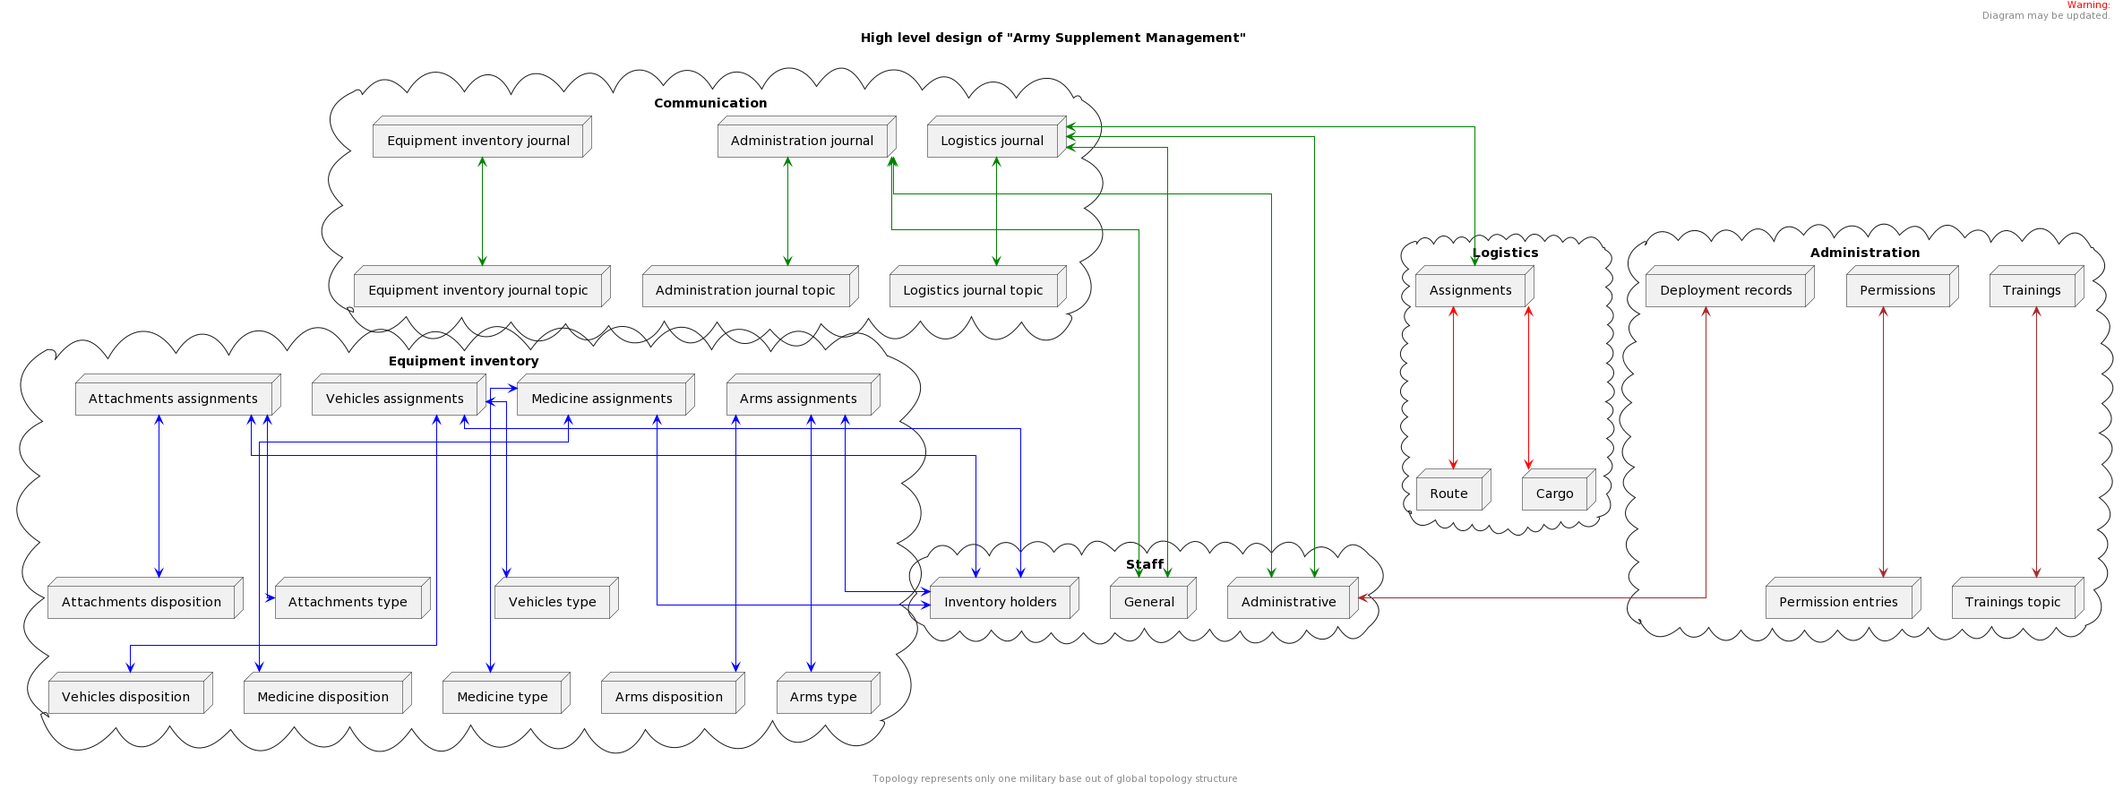
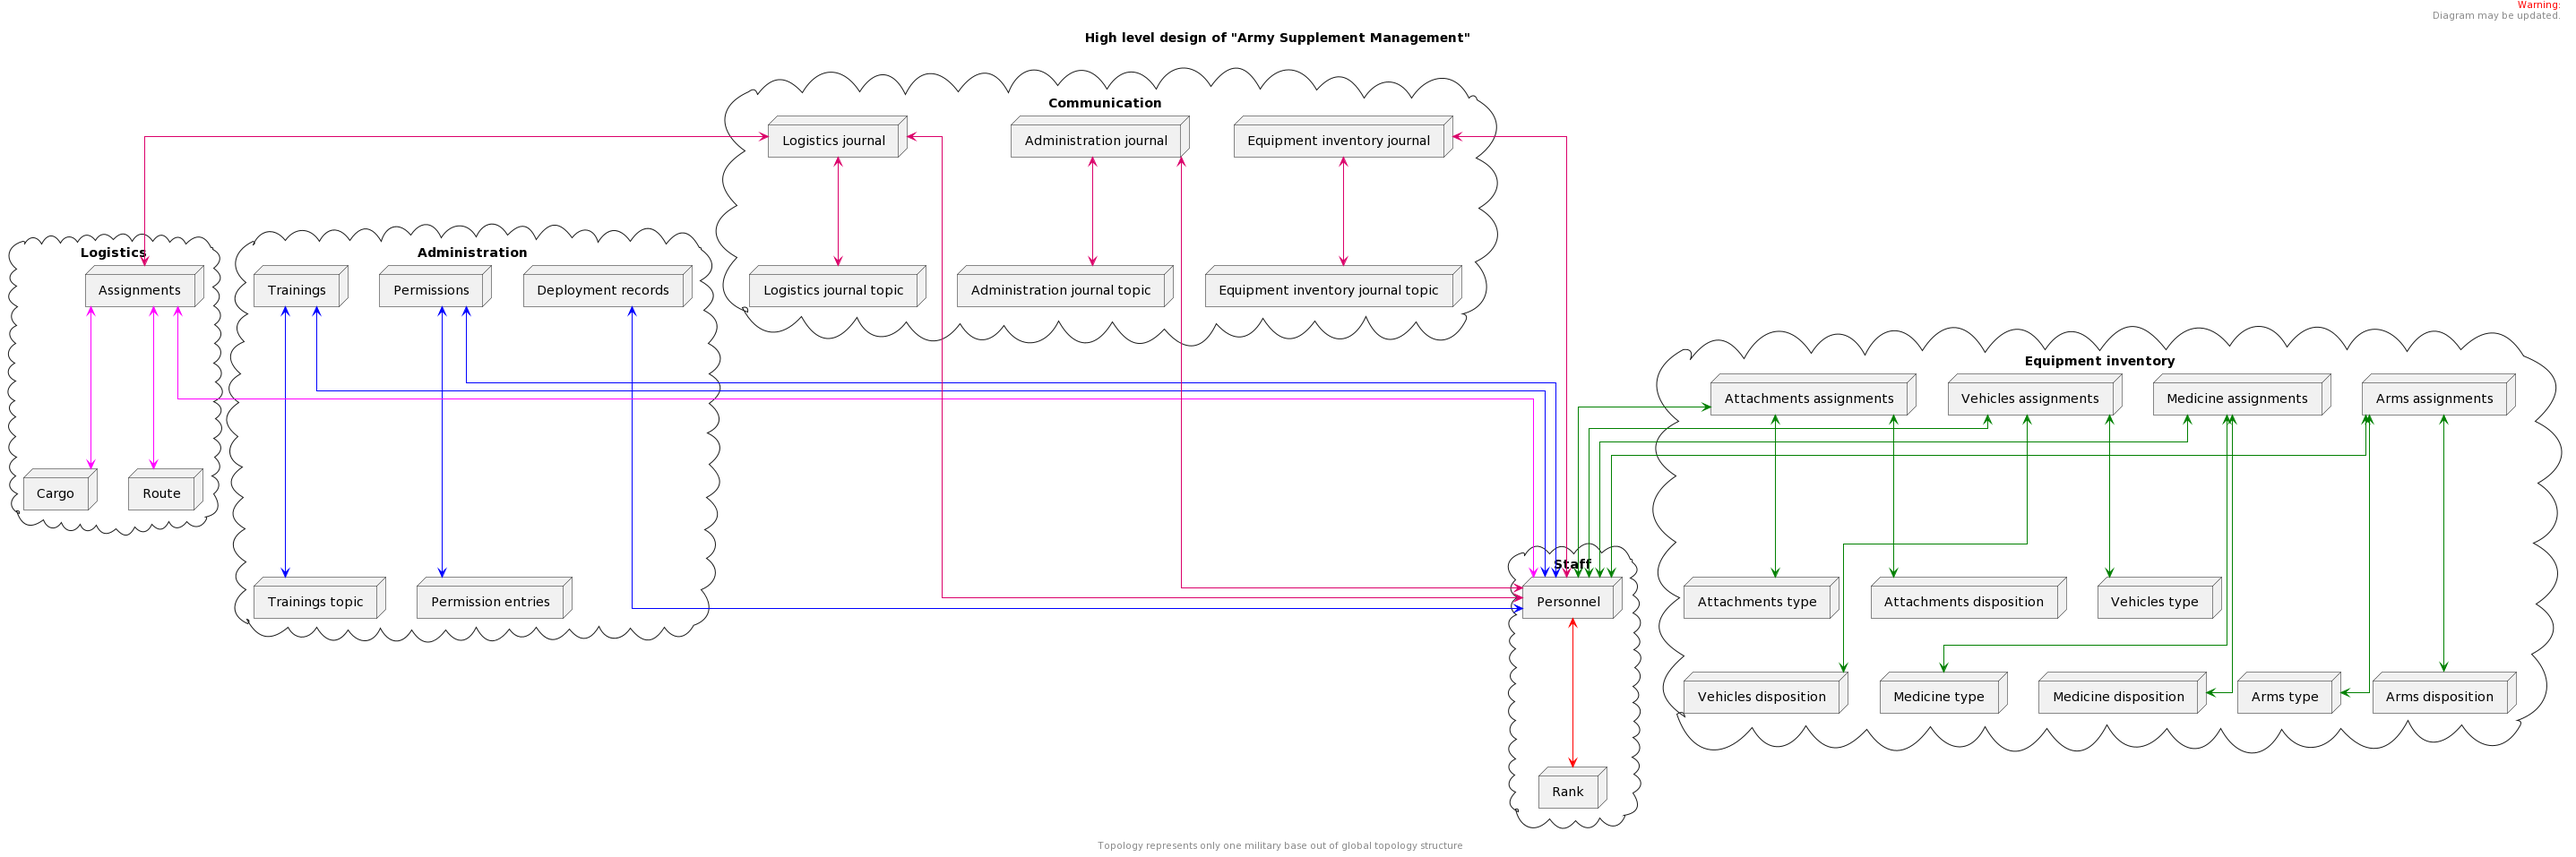
feature: added diagrams

diff --git a/docs/examples/detailed-design-raw.md b/docs/examples/detailed-design-raw.md
@@ -16,11 +16,10 @@ header
 Diagram may be updated.
 endheader
 
-cloud "Staff" as staff {
+cloud "\l\lStaff" as staff {
 
 entity "staff_personnel" {
     *id : number <<PK>>
-    *rank : number <<FK>> # staff_rank(id)
     --
     name : varchar<20>
     surname : varchar<20>
@@ -38,26 +37,22 @@ entity "staff_rank" {
     name : varchar<20>
 }
 
-staff_personnel }|...|| staff_rank
+staff_personnel }|...|| staff_rank #red : <color:red>is assigned as
 
 }
 
 together {
-cloud "Equipment inventory" as equipment_inventory {
+cloud "\l\l\l\lEquipment inventory" as equipment_inventory {
 
 entity "equipment_inventory_arms_assignments" {
     *id : number <<PK>>
-    *item : number <<FK>> # equipment_inventory_arms_disposition(id)
-    *assignee : number <<FK>> # staff_personnel(id)
     --
     created_at : timestamp
 }
 
 entity "equipment_inventory_arms_disposition" {
     *id : number <<PK>>
-    *type : number <<FK>> # equipment_inventory_arms_type(id)
     --
-    quantity : number
 }
 
 entity "equipment_inventory_arms_type" {
@@ -69,17 +64,13 @@ entity "equipment_inventory_arms_type" {
 
 entity "equipment_inventory_vehicles_assignments" {
     *id : number <<PK>>
-    *item : number <<FK>> # equipment_inventory_vehicles_disposition(id)
-    *assignee : number <<FK>> # staff_personnel(id)
     --
     created_at : timestamp
 }
 
 entity "equipment_inventory_vehicles_disposition" {
     *id : number <<PK>>
-    *type : number <<FK>> # equipment_inventory_vehicles_type(id)
     --
-    quantity : number
 }
 
 entity "equipment_inventory_vehicles_type" {
@@ -92,17 +83,13 @@ entity "equipment_inventory_vehicles_type" {
 
 entity "equipment_inventory_attachments_assignments" {
     *id : number <<PK>>
-    *item : number <<FK>> # equipment_inventory_attachments_disposition(id)
-    *assignee : number <<FK>> # staff_personnel(id)
     --
     created_at : timestamp
 }
 
 entity "equipment_inventory_attachments_disposition" {
     *id : number <<PK>>
-    *type : number <<FK>> # equipment_inventory_attachments_type(id)
     --
-    quantity : number
 }
 
 entity "equipment_inventory_attachments_type" {
@@ -112,26 +99,22 @@ entity "equipment_inventory_attachments_type" {
     compatability : varchar<10>
 }
 
-equipment_inventory_arms_assignments }|...|| equipment_inventory_arms_disposition
-equipment_inventory_arms_assignments }|...|| staff_personnel
-equipment_inventory_arms_disposition }|...|| equipment_inventory_arms_type
+equipment_inventory_arms_assignments }|...|| equipment_inventory_arms_disposition #green : <color:green>allocates
+equipment_inventory_arms_assignments }|...|| staff_personnel #green : <color:green>is issued to
+equipment_inventory_arms_disposition }|...|| equipment_inventory_arms_type #green : <color:green>represents
 
-equipment_inventory_vehicles_assignments }|...|| equipment_inventory_vehicles_disposition
-equipment_inventory_vehicles_assignments }|...|| staff_personnel
-equipment_inventory_vehicles_disposition }|...|| equipment_inventory_vehicles_type
+equipment_inventory_vehicles_assignments }|...|| equipment_inventory_vehicles_disposition #green : <color:green>allocates
+equipment_inventory_vehicles_assignments }|...|| staff_personnel #green : <color:green>is issued to
+equipment_inventory_vehicles_disposition }|...|| equipment_inventory_vehicles_type #green : <color:green>represents
 
-equipment_inventory_attachments_assignments }|...|| equipment_inventory_attachments_disposition
-equipment_inventory_attachments_assignments }|...|| staff_personnel
-equipment_inventory_attachments_disposition }|...|| equipment_inventory_attachments_type
+equipment_inventory_attachments_assignments }|...|| equipment_inventory_attachments_disposition #green : <color:green>allocates
+equipment_inventory_attachments_assignments }|...|| staff_personnel #green : <color:green>is issued to
+equipment_inventory_attachments_disposition }|...|| equipment_inventory_attachments_type #green : <color:green>represents
 }
 
-cloud "Administration" as administration {
+cloud "\l\lAdministration" as administration {
 entity "administration_trainings" {
     *id : number <<PK>>
-    *approved_by : number <<FK>> # staff_personnel(id) == administrative
-    *initiated_by : number <<FK>> # staff_personnel(id) == administrative
-    *subordinate : number <<FK>> # staff_personnel(id)
-    *topic : number <<FK>> # administration_trainings_topic(id)
     --
     till : timestamp 
     since : timestamp
@@ -146,7 +129,6 @@ entity "administration_trainings_topic" {
 
 entity "administration_deployment_records" {
     *id : number <<PK>>
-    *approved_by : number <<FK>> # staff_personnel(id) == administrative
     --
     facility : location
     till : timestamp
@@ -155,8 +137,6 @@ entity "administration_deployment_records" {
 
 entity "administration_permissions" {
     *id : number <<PK>>
-    *approved_by : number <<FK>> # staff_personnel(id) == administrative
-    *entry : number <<FK>> # administration_permission_entries(id)
     --
 }
 
@@ -167,23 +147,22 @@ entity "administration_permission_entries" {
     scope : enum('administrative', 'executive', 'logistics', 'inventory_holder', 'communication')
 }
 
-administration_trainings }|...|| staff_personnel
-administration_trainings }|...|| administration_trainings_topic
+administration_trainings }|...|| staff_personnel #blue : <color:blue>approved by
+administration_trainings }|...|| staff_personnel #blue : <color:blue>initiated by
+administration_trainings }|...|| staff_personnel #blue : <color:blue>subordinate
+administration_trainings }|...|| administration_trainings_topic #blue : <color:blue>is about
 
-administration_deployment_records }|...|| staff_personnel
+administration_deployment_records }|...|| staff_personnel #blue : <color:blue>approved by
 
-administration_permissions }|...|| staff_personnel
-administration_permissions }|...|| administration_permission_entries
+administration_permissions }|...|| staff_personnel #blue : <color:blue>approved by
+administration_permissions }|...|| administration_permission_entries #blue : <color:blue>is type of
 }
 }
 
-cloud "Logistics" as logistics {
+cloud "\l\lLogistics" as logistics {
 
 entity "logistics_assignments" {
     *id : number <<PK>>
-    *route : number <<FK>> # logistics_route(id)
-    *cargo : number <<FK>> # logistics_cargo(id)
-    *assignee : number <<FK>> # staff_personnel(id)
     --
     created_at : timestamp
 }
@@ -205,20 +184,16 @@ entity "logistics_cargo" {
     created_at : timestamp
 }
 
-logistics_assignments }|...|| logistics_route
-logistics_assignments }|...|| logistics_cargo
-logistics_assignments }|...|| staff_personnel
+logistics_assignments }|...|| logistics_route #magenta : <color:magenta>directs to
+logistics_assignments }|...|| logistics_cargo #magenta : <color:magenta>carries
+logistics_assignments }|...|| staff_personnel #magenta : <color:magenta>delivered by
 
 }
 
-cloud "Communication" as communication {
+cloud "\l\l\lCommunication" as communication {
 
 entity "communication_logistics_journal" {
     *id : number <<PK>>
-    *initiated_by : number <<FK>> # staff_personnel(id) == administrative
-    *subordinate : number <<FK>> # staff_personnel(id)
-    *assignment : number <<FK>> # logistics_assignments(id)
-    *topic : number <<FK>> # communication_logistics_journal_topic(id)
     --
     created_at : timestamp
 }
@@ -231,9 +206,6 @@ entity "communication_logistics_journal_topic" {
 
 entity "communication_administration_journal" {
     *id : number <<PK>>
-    *initiated_by : number <<FK>> # staff_personnel(id) == administrative
-    *subordinate : number <<FK>> # staff_personnel(id)
-    *topic : number <<FK>> # communication_administration_journal_topic(id)
     -- 
     created_at : timestamp
 }
@@ -246,9 +218,6 @@ entity "communication_administration_journal_topic" {
 
 entity "communication_equipment_inventory_journal" {
     *id : number <<PK>>
-    *initiated_by : number <<FK>> # staff_personnel(id) == administrative
-    *subordinate : number <<FK>> # staff_arm_holder(id)
-    *topic : number <<FK>> # communication_equipment_inventory_journal_topic(id)
     -- 
     created_at : timestamp
 }
@@ -259,15 +228,18 @@ entity "communication_equipment_inventory_journal_topic" {
     name : varchar<20>
 }
 
-communication_logistics_journal }|...|| logistics_assignments
-communication_logistics_journal }|...|| communication_logistics_journal_topic
-communication_logistics_journal }|...|| staff_personnel
+communication_logistics_journal }|...|| logistics_assignments #db006a : <color:#db006a>associated with
+communication_logistics_journal }|...|| communication_logistics_journal_topic #db006a : <color:#db006a>is about
+communication_logistics_journal }|...|| staff_personnel #db006a : <color:#db006a>initiated by
+communication_logistics_journal }|...|| staff_personnel #db006a : <color:#db006a>delivered by
 
-communication_administration_journal }|...|| communication_administration_journal_topic
-communication_administration_journal }|...|| staff_personnel
+communication_administration_journal }|...|| communication_administration_journal_topic #db006a : <color:#db006a>is about
+communication_administration_journal }|...|| staff_personnel #db006a : <color:#db006a>initiated by
+communication_administration_journal }|...|| staff_personnel #db006a : <color:#db006a>related to
 
-communication_equipment_inventory_journal }|...|| communication_equipment_inventory_journal_topic
-communication_equipment_inventory_journal }|...|| staff_personnel
+communication_equipment_inventory_journal }|...|| communication_equipment_inventory_journal_topic #db006a : <color:#db006a>is about
+communication_equipment_inventory_journal }|...|| staff_personnel #db006a : <color:#db006a>initiated by
+communication_equipment_inventory_journal }|...|| staff_personnel #db006a : <color:#db006a>assigned to
 }
 
 footer "Topology represents only one military base out of global topology structure"

diff --git a/README.md b/README.md
@@ -1,7 +1,5 @@
 # ArmySupplementManagement
 
-[![StandWithUkraine](https://raw.githubusercontent.com/vshymanskyy/StandWithUkraine/main/badges/StandWithUkraine.svg)](https://github.com/vshymanskyy/StandWithUkraine/blob/main/docs/README.md)
-
 ## General Information
 
 An army supplement management database topology, which describes main army management structure for one exact military base out of the external topology context.
@@ -82,28 +80,28 @@ In order to gain logical isolation of data all the top-tier structures are separ
 
 ## Relation
 
-* _staff_personnel_ **zero or many to zero or many** _staff_rank_
-* _equipment_inventory_arms_assignments_ **zero or many to zero or many** _equipment_inventory_arms_disposition_
-* _equipment_inventory_arms_assignments_ **zero or many to zero or many** _staff_personnel_
-* _equipment_inventory_arms_disposition_ **zero or many to exactly one** _equipment_inventory_arms_type_
-* _equipment_inventory_vehicles_assignments_ **zero or many to zero or many** _equipment_inventory_vehicles_disposition_
-* _equipment_inventory_vehicles_assignments_ **zero or many to zero or many** _staff_personnel_
-* _equipment_inventory_vehicles_disposition_ **zero or many to exactly one** _equipment_inventory_vehicles_type_
-* _equipment_inventory_attachments_assignments_ **zero or many to zero or many** _equipment_inventory_attachments_disposition_
-* _equipment_inventory_attachments_assignments_ **zero or many to zero or many** _staff_personnel_
-* _equipment_inventory_attachments_disposition_ **zero or many to exactly one** _equipment_inventory_attachments_type_
-* _logistics_assignments_ **zero or many to zero or many** _logistics_route_
-* _logistics_assignments_ **zero or many to exactly one** _logistics_cargo_
-* _logistics_assignments_ **zero or many to zero or many** _staff_personnel_
-* _communication_logistics_journal_ **zero or many to zero or many** _logistics_assignments_
-* _communication_logistics_journal_ **zero or many to zero or many** _communication_logistics_journal_topic_
-* _communication_logistics_journal_ **zero or many to zero or many** _staff_personnel_
-* _communication_administration_journal_ **zero or many to zero or many** _communication_administration_journal_topic_
-* _communication_administration_journal_ **zero or many to zero or many** _staff_personnel_
-* _communication_equipment_inventory_journal_ **zero or many to zero or many** _communication_equipment_inventory_journal_topic_
-* _communication_equipment_inventory_journal_ **zero or many to zero or many** _staff_personnel_
-* _administration_trainings_ **zero or many to zero or many** _staff_personnel_
-* _administration_trainings_ **zero or many to zero or many** _administration_trainings_topic_
-* _administration_deployment_records_ **zero or many to zero or many** _staff_personnel_
-* _administration_permissions_ **zero or many to zero or many** _staff_personnel_
-* _administration_permissions_ **zero or many to zero or many** _administration_permission_entries_
+* _staff_personnel_ **one or many to exactly one** _staff_rank_
+* _equipment_inventory_arms_assignments_ **one or many to exactly one** _equipment_inventory_arms_disposition_
+* _equipment_inventory_arms_assignments_ **one or many to exactly one** _staff_personnel_
+* _equipment_inventory_arms_disposition_ **one or many to exactly one** _equipment_inventory_arms_type_
+* _equipment_inventory_vehicles_assignments_ **one or many to exactly one** _equipment_inventory_vehicles_disposition_
+* _equipment_inventory_vehicles_assignments_ **one or many to exactly one** _staff_personnel_
+* _equipment_inventory_vehicles_disposition_ **one or many to exactly one** _equipment_inventory_vehicles_type_
+* _equipment_inventory_attachments_assignments_ **one or many to exactly one** _equipment_inventory_attachments_disposition_
+* _equipment_inventory_attachments_assignments_ **one or many to exactly one** _staff_personnel_
+* _equipment_inventory_attachments_disposition_ **one or many to exactly one** _equipment_inventory_attachments_type_
+* _logistics_assignments_ **one or many to exactly one** _logistics_route_
+* _logistics_assignments_ **one or many to exactly one** _logistics_cargo_
+* _logistics_assignments_ **one or many to exactly one** _staff_personnel_
+* _communication_logistics_journal_ **one or many to exactly one** _logistics_assignments_
+* _communication_logistics_journal_ **one or many to exactly one** _communication_logistics_journal_topic_
+* _communication_logistics_journal_ **one or many to exactly one** _staff_personnel_
+* _communication_administration_journal_ **one or many to exactly one** _communication_administration_journal_topic_
+* _communication_administration_journal_ **one or many to exactly one** _staff_personnel_
+* _communication_equipment_inventory_journal_ **one or many to exactly one** _communication_equipment_inventory_journal_topic_
+* _communication_equipment_inventory_journal_ **one or many to exactly one** _staff_personnel_
+* _administration_trainings_ **one or many to exactly one** _staff_personnel_
+* _administration_trainings_ **one or many to exactly one** _administration_trainings_topic_
+* _administration_deployment_records_ **one or many to exactly one** _staff_personnel_
+* _administration_permissions_ **one or many to exactly one** _staff_personnel_
+* _administration_permissions_ **one or many to exactly one** _administration_permission_entries_

diff --git a/docs/examples/high-level-design-raw.md b/docs/examples/high-level-design-raw.md
@@ -12,9 +12,10 @@ Diagram may be updated.
 endheader
 
 cloud "Staff" as staff {
-    node "Administrative" as staff_administrative
-    node "General" as staff_general
-    node "Inventory holders" as staff_inventory_holders
+    node "Personnel" as staff_personnel
+    node "Rank" as staff_rank
+    
+    staff_personnel <-[#red]--> staff_rank
 }
 
 cloud "Equipment inventory" as equipment_inventory {
@@ -34,21 +35,21 @@ cloud "Equipment inventory" as equipment_inventory {
     node "Attachments disposition" as equipment_attachments_disposition
     node "Attachments type" as equipment_attachments_type
 
-    equipment_arms_assignments <--[#blue]--> equipment_arms_disposition
-    equipment_arms_assignments <--[#blue]--> equipment_arms_type
-    equipment_arms_assignments <--[#blue]-> staff_inventory_holders
+    equipment_arms_assignments <--[#green]--> equipment_arms_disposition
+    equipment_arms_assignments <--[#green]--> equipment_arms_type
+    equipment_arms_assignments <--[#green]-> staff_personnel
     
-    equipment_medicine_assignments <--[#blue]--> equipment_medicine_disposition
-    equipment_medicine_assignments <--[#blue]--> equipment_medicine_type
-    equipment_medicine_assignments <-[#blue]--> staff_inventory_holders
+    equipment_medicine_assignments <--[#green]--> equipment_medicine_disposition
+    equipment_medicine_assignments <--[#green]--> equipment_medicine_type
+    equipment_medicine_assignments <-[#green]--> staff_personnel
     
-    equipment_vehicles_assignments <--[#blue]--> equipment_vehicles_disposition
-    equipment_vehicles_assignments <-[#blue]--> equipment_vehicles_type
-    equipment_vehicles_assignments <-[#blue]--> staff_inventory_holders
+    equipment_vehicles_assignments <--[#green]--> equipment_vehicles_disposition
+    equipment_vehicles_assignments <-[#green]--> equipment_vehicles_type
+    equipment_vehicles_assignments <-[#green]--> staff_personnel
 
-    equipment_attachments_assignments <-[#blue]--> equipment_attachments_disposition
-    equipment_attachments_assignments <-[#blue]--> equipment_attachments_type
-    equipment_attachments_assignments <-[#blue]--> staff_inventory_holders
+    equipment_attachments_assignments <-[#green]--> equipment_attachments_disposition
+    equipment_attachments_assignments <-[#green]--> equipment_attachments_type
+    equipment_attachments_assignments <-[#green]--> staff_personnel
 }
 
 together {
@@ -61,9 +62,11 @@ cloud "Administration" as administration {
     node "Permissions" as administration_permissions
     node "Permission entries" as administration_permission_entries
     
-    administration_deployment_records <--[#brown]--> staff_administrative
-    administration_trainings <--[#brown]--> administration_trainings_topic
-    administration_permissions <--[#brown]--> administration_permission_entries
+    administration_deployment_records <--[#blue]--> staff_personnel
+    administration_trainings <--[#blue]--> administration_trainings_topic
+    administration_trainings <--[#blue]--> staff_personnel
+    administration_permissions <--[#blue]--> administration_permission_entries
+    administration_permissions <--[#blue]--> staff_personnel
 }
 
 cloud "Logistics" as logistics {
@@ -71,8 +74,9 @@ cloud "Logistics" as logistics {
     node "Route" as logistics_route
     node "Cargo" as logistics_cargo 
 
-    logistics_assignments <--[#red]-> logistics_route
-    logistics_assignments <--[#red]-> logistics_cargo
+    logistics_assignments <--[#magenta]-> staff_personnel
+    logistics_assignments <--[#magenta]-> logistics_route
+    logistics_assignments <--[#magenta]-> logistics_cargo
 }
 }
 
@@ -86,16 +90,15 @@ cloud "Communication" as communication {
     node "Equipment inventory journal" as equipment_inventory_journal
     node "Equipment inventory journal topic" as equipment_inventory_journal_topic
     
-    logistics_journal <-[#green]--> logistics_journal_topic
-    administration_journal <-[#green]--> administration_journal_topic
-    equipment_inventory_journal <-[#green]--> equipment_inventory_journal_topic
+    logistics_journal <-[#db006a]--> logistics_journal_topic
+    logistics_journal <-[#db006a]--> logistics_assignments
+    logistics_journal <--[#db006a]--> staff_personnel
     
-    logistics_journal <-[#green]--> logistics_assignments
-    logistics_journal <--[#green]--> staff_administrative
-    logistics_journal <--[#green]--> staff_general
+    administration_journal <-[#db006a]--> administration_journal_topic
+    administration_journal <--[#db006a]--> staff_personnel
     
-    administration_journal <--[#green]--> staff_administrative
-    administration_journal <--[#green]--> staff_general 
+    equipment_inventory_journal <-[#db006a]--> equipment_inventory_journal_topic
+    equipment_inventory_journal <--[#db006a]--> staff_personnel
 }
 
 footer "Topology represents only one military base out of global topology structure"
